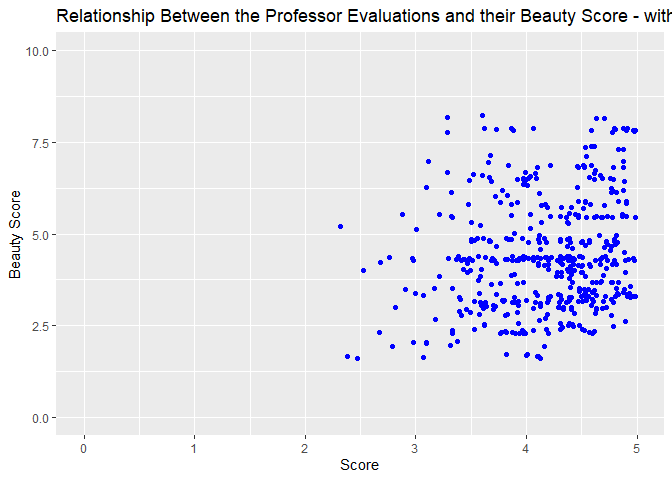
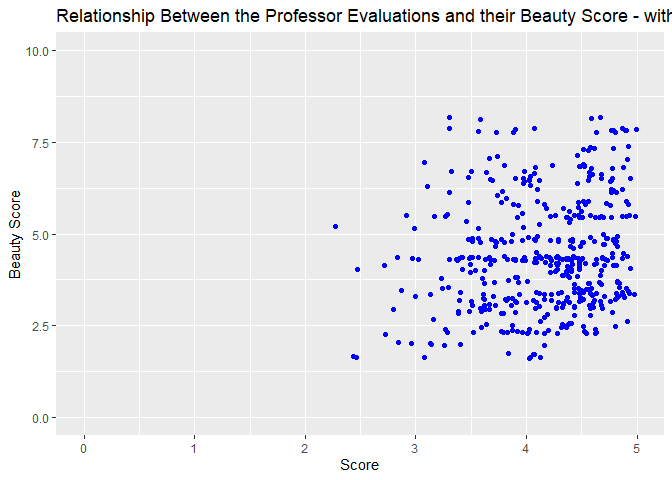
Make final touches to lab 8 and finish lab 9

diff --git a/lab-08.md b/lab-08.md
@@ -8,6 +8,19 @@ Linn Zapffe
 ``` r
 # Library for plots, data handling, and web scraping
 library(tidyverse) 
+```
+
+    ## Warning: package 'ggplot2' was built under R version 4.3.3
+
+    ## Warning: package 'tidyr' was built under R version 4.3.3
+
+    ## Warning: package 'readr' was built under R version 4.3.3
+
+    ## Warning: package 'purrr' was built under R version 4.3.3
+
+    ## Warning: package 'lubridate' was built under R version 4.3.3
+
+``` r
 library(skimr)
 ```
 
@@ -48,19 +61,70 @@ uoe_art <- uoe_art %>%
   select(title, artist, year, ___)
 ```
 
-    ## Error in parse(text = input): <text>:4:32: unexpected input
-    ## 3:   mutate(year = str_remove(date, "\\)") %>% as.numeric()) %>%
-    ## 4:   select(title, artist, year, __
-    ##                                   ^
+### I gave up - Wrap-up reflection
 
-### Exercise 10
+So, this lab has given me an introduction to how many ways in which you
+can break web scraping. I webscraped the first two pages manually, then
+made a function to do it. The function worked well when I tested it on
+the first few pages. However, when I came back to it a week or two
+later, I got an error running the function. Testing and trying showed
+that there was a problem with some of the entries, so that when there
+was no author for one art piece, it extracted only 9 authors instead of
+10, which made the code fail when trying to create a data frame out of
+it (expecting 10 rows). It seems like something on the webpage changed
+between those weeks I didn’t work on the project.
 
-Remove this text, and add your answer for Exercise 10 here. Add code
-chunks as needed. Don’t forget to label your code chunk. Do not use
-spaces in code chunk labels.
+There were several other students that managed to do the lab
+successfully, so I looked at their code to see what was different.
 
-### Exercise 11
+Cynthia used this code to scrape the artists: page %\>%
+html_nodes(“.iteminfo”) %\>% html_node(“.artist”) %\>% html_text()
 
-…
+While I used this code: page %\>% html_nodes(“.iteminfo”) %\>%
+html_nodes(“.artist”) %\>% html_text()
 
-Add exercise headings as needed.
+The difference here is in using html_nodes vs html_node.
+
+Looking into the difference between html_nodes and html_node, it seems
+like html_node gives you the same number of outputs as inputs, while
+html_nodes gives you a number of outputs based on the data. Therefore,
+in Cynthia’s code, she is putting in one page and using html_nodes to
+get a free number of outputs. In this case, it is 10 since there are 10
+data entires. Then, she is using html_node, which is restricted to the
+same number of outputs as inputs, so that you get 10 authors, even if
+there are 2 authors for one art piece or no authors. It will then
+include both authors for one art piece or put in “unknown” when there is
+no author. In my code, I am running html_nodes first which gives me 10
+outputs, one for each art piece, then when running html_nodes again, the
+function is not restricted to 10 outputs, so it will divide 2 authors
+into separate instances, producing a vector of 11 elements, or delete
+the item with unknown, producing a vector of 9 elements.
+
+When fixing this up (before looking too closely into why html_node
+worked, but not html_nodes) I later tried running page_sec %\>%
+html_node(“.artist”) %\>% html_text()
+
+as I also while doing the lab early, noticed that you do not need the
+“html_nodes(”.iteminfo”) %\>%” part of the code to get the artist names.
+However, in this case, this doesn’t work, since I am here saying to only
+get one output, since there is only one input, the page. It therefore
+only gives me the last artist name. The “html_nodes(”.iteminfo”) %\>%”
+part therefore serves to restict the output to 10 elements. So it
+technically isn’t needed to get the artist names, but it serves to
+restrict the output to 10 names for the next code, getting the artist
+names.
+
+When looking at all of this, I noticed that html_node() and html_nodes()
+are deprecated and should instead now be html_element() and
+html_elements(). I did at some point get better output when using
+html_element(s) than html_node(s), but I can’t replicate it anymore. The
+safest option seems to be to use html_elements() with the .iteminfo to
+get 10 outputs, and then restrict it to 10 outputs by using
+html_element() afterward.
+
+So, I have learned how quickly web scraping can break when someone
+changes the webpage you are scraping from. I have also learned that you
+probably want to do extra checks when web scraping because there are so
+many ways in which it can break. Next time, I will be more prepared, as
+I have learned the trick with restricting output by using html_element()
+and html_elements().

diff --git a/lab-09.md b/lab-09.md
@@ -1,7 +1,7 @@
 Lab 09 - Grading the professor, Pt. 1
 ================
-Insert your name here
-Insert date here
+Linn Zapffe
+03/03/2025
 
 ### Load packages and data
 
@@ -130,7 +130,7 @@ evals %>%
   ylim(0, 10)
 ```
 
-    ## Warning: Removed 3 rows containing missing values or values outside the scale range
+    ## Warning: Removed 8 rows containing missing values or values outside the scale range
     ## (`geom_point()`).
 
 ![](lab-09_files/figure-gfm/plot-score-beauty-jitter-1.png)<!-- -->
@@ -298,8 +298,100 @@ teaching), is 4.28. Then, if the professor is instead tenure track, they
 get a decrease in their score of 0.12 points, or if they are tenured,
 they get a decrease in their score of 0.14.
 
-### Exercise 11
+### Exercise 12
 
-## 
+Creating a factor variable for rank and make tenure track the baseline:
 
-For Exercise 12, relevel() function can be helpful!
+``` r
+evals_df <- evals %>% 
+  mutate(rank_relevel = factor(rank, levels = c("tenure track", "tenured", "teaching")))
+```
+
+## Exercise 13
+
+Fitting regression with new ordering for rank:
+
+``` r
+m_rank_relevel <- lm(score ~ rank_relevel, data = evals_df)
+summary(m_rank_relevel)
+```
+
+    ## 
+    ## Call:
+    ## lm(formula = score ~ rank_relevel, data = evals_df)
+    ## 
+    ## Residuals:
+    ##     Min      1Q  Median      3Q     Max 
+    ## -1.8546 -0.3391  0.1157  0.4305  0.8609 
+    ## 
+    ## Coefficients:
+    ##                      Estimate Std. Error t value Pr(>|t|)    
+    ## (Intercept)           4.15463    0.05214  79.680   <2e-16 ***
+    ## rank_releveltenured  -0.01550    0.06228  -0.249   0.8036    
+    ## rank_relevelteaching  0.12968    0.07482   1.733   0.0837 .  
+    ## ---
+    ## Signif. codes:  0 '***' 0.001 '**' 0.01 '*' 0.05 '.' 0.1 ' ' 1
+    ## 
+    ## Residual standard error: 0.5419 on 460 degrees of freedom
+    ## Multiple R-squared:  0.01163,    Adjusted R-squared:  0.007332 
+    ## F-statistic: 2.706 on 2 and 460 DF,  p-value: 0.06786
+
+y = 4.15 - 0.02x(tenured) + 0.13x(teaching)
+
+The initial rating (which corresponds to that of tenured professors), is
+4.15. Then, if the professor is instead tenured, they get a decrease in
+their score of 0.02 points, or if they are just teaching, they get an
+increase in their score of 0.13.
+
+The adjusted R^2 is 0.0073, meaning that rank explains 0.73% of the
+variance in teaching, which is not a lot.
+
+## Exercise 14
+
+Creating a factor variable for tenure eligible or not:
+
+``` r
+evals_df <- evals_df %>% 
+  mutate(tenure_eligible = case_when(
+    rank == "tenure track" ~ "yes",
+    rank == "tenured" ~ "yes",
+    rank == "teaching" ~ "no"
+  ))
+```
+
+## Exercise 15
+
+Fitting regression with new ordering for rank:
+
+``` r
+m_tenure_eligible <- lm(score ~ tenure_eligible, data = evals_df)
+summary(m_tenure_eligible)
+```
+
+    ## 
+    ## Call:
+    ## lm(formula = score ~ tenure_eligible, data = evals_df)
+    ## 
+    ## Residuals:
+    ##     Min      1Q  Median      3Q     Max 
+    ## -1.8438 -0.3438  0.1157  0.4360  0.8562 
+    ## 
+    ## Coefficients:
+    ##                    Estimate Std. Error t value Pr(>|t|)    
+    ## (Intercept)          4.2843     0.0536  79.934   <2e-16 ***
+    ## tenure_eligibleyes  -0.1406     0.0607  -2.315    0.021 *  
+    ## ---
+    ## Signif. codes:  0 '***' 0.001 '**' 0.01 '*' 0.05 '.' 0.1 ' ' 1
+    ## 
+    ## Residual standard error: 0.5413 on 461 degrees of freedom
+    ## Multiple R-squared:  0.0115, Adjusted R-squared:  0.009352 
+    ## F-statistic: 5.361 on 1 and 461 DF,  p-value: 0.02103
+
+y = 4.28 - 0.14x(tenure eligible)
+
+The initial rating (which corresponds to that of professors not being
+tenure eligible), is 4.28. Then, if the professor is tenure eligible,
+they get a decrease in their score of 0.14 points.
+
+The adjusted R^2 is 0.0093, meaning that tenure eligibility explains
+0.93% of the variance in teaching, which is not a lot.
